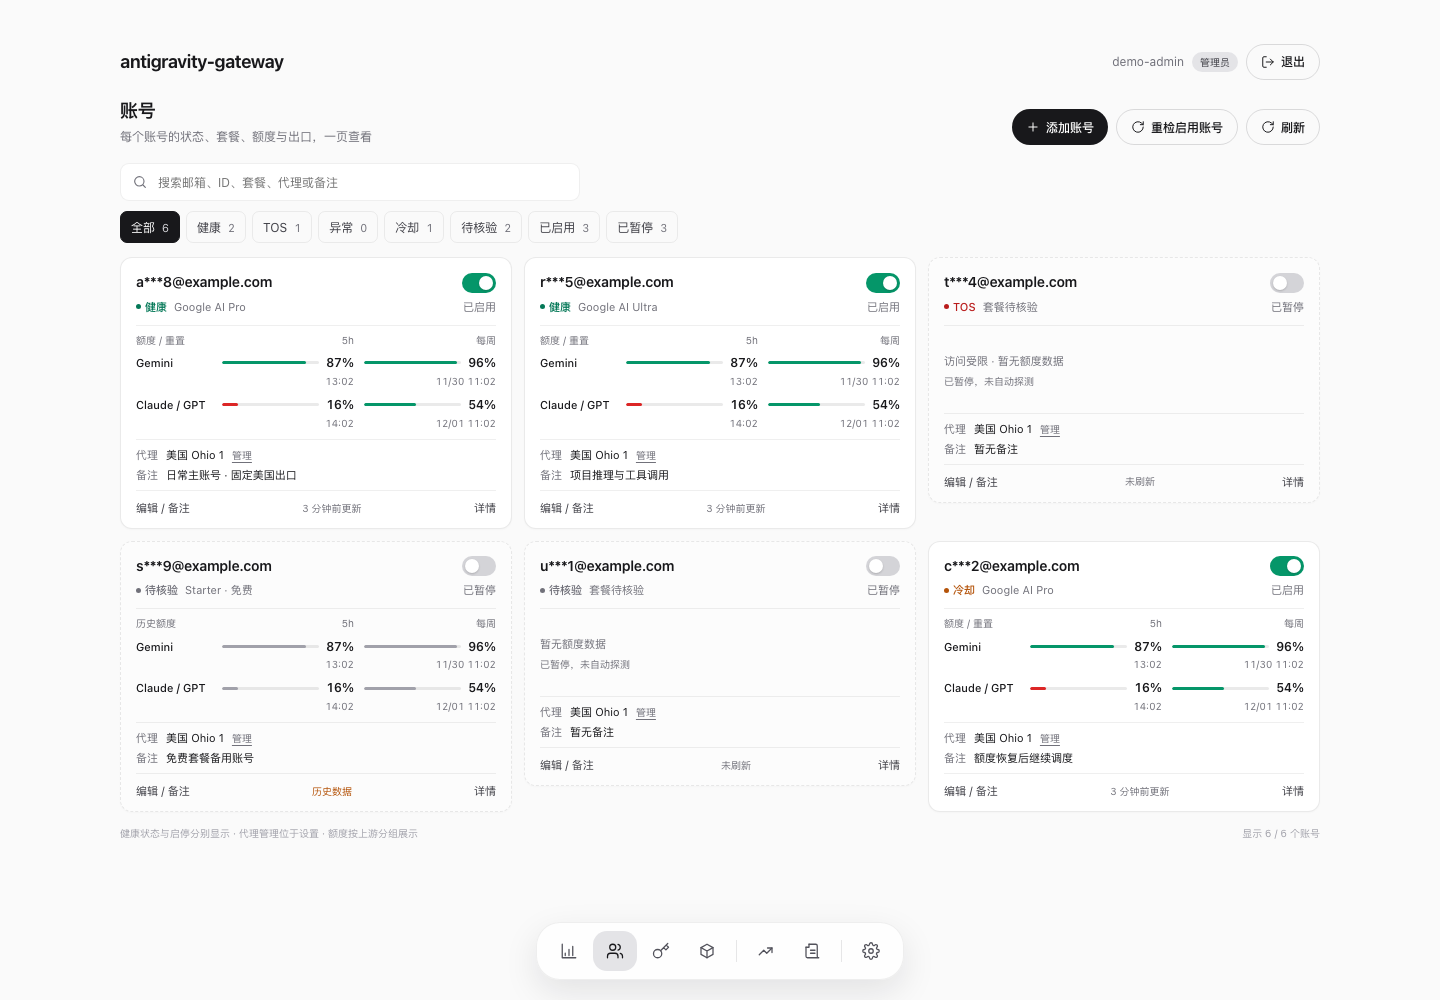
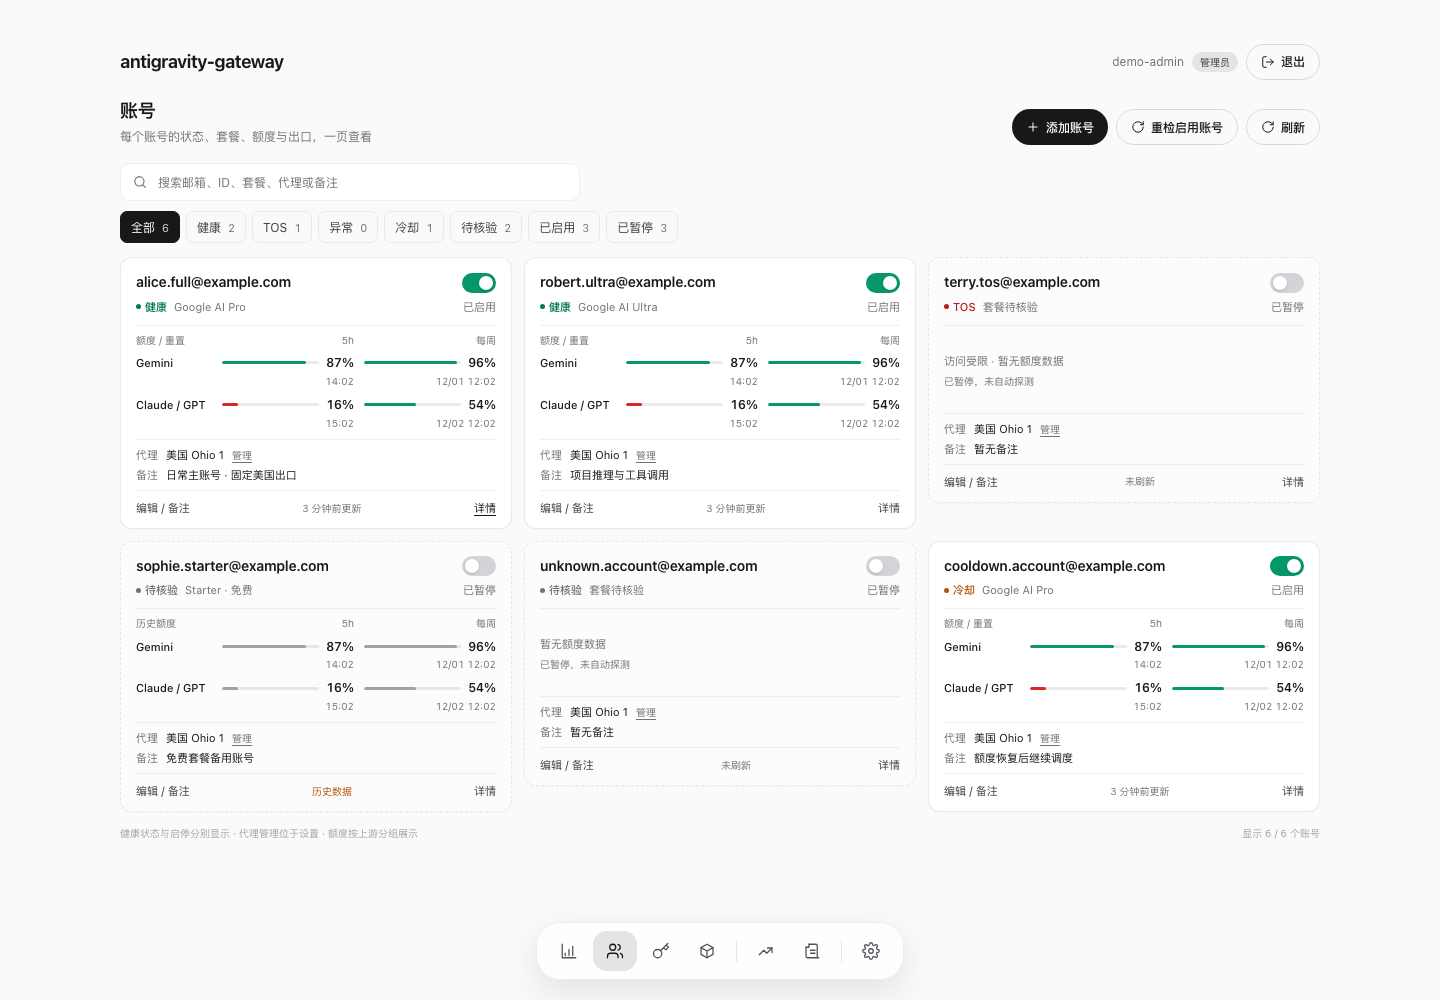
feat(manager): show full account emails and release bailey.51

diff --git a/src/admin-api.js b/src/admin-api.js
@@ -102,6 +102,7 @@ function dailyTrend(history, days, now = Date.now()) {
 function accountSnapshot(account, { providerType, accountType, quota }) {
   return {
     id: account.id,
+    email: account.email || '',
     emailMasked: maskEmail(account.email),
     tokenUsageKnown: typeof account.tokenUsageKnown === 'boolean' ? account.tokenUsageKnown : true,
     models: Array.isArray(account.models) ? account.models.map(String) : [],
@@ -329,7 +330,7 @@ function usageSummary(deps, { days = 7, groupBy = 'model', grain = 'day', now = 
     const knownRequests = [...items.values()].reduce((n, row) => n + row.requests, 0);
     items.set('unattributed', { id: 'unattributed', name: '未归属（主密钥 / 历史 / 已删除或重置）', tokens: Math.max(0, totals.totalTokens - knownTokens), requests: Math.max(0, totals.clientRequests - knownRequests), inputTokens: null, outputTokens: null, cachedTokens: null, successRate: null });
   } else {
-    const labels = groupBy === 'account' ? new Map([...Object.entries(deps.accountLabels?.all() || {}), ...accountList(deps).map(row => [row.id, row.emailMasked])]) : new Map();
+    const labels = groupBy === 'account' ? new Map([...Object.entries(deps.accountLabels?.all() || {}), ...accountList(deps).map(row => [row.id, row.email])]) : new Map();
     const buckets = groupBy === 'account' ? summary.hourlyByAccount : summary.hourlyByModel;
     for (const [hour, groups] of Object.entries(buckets || {})) {
       const at = Date.parse(hour);
@@ -448,7 +449,7 @@ async function handleAdminRequest({ req, res, route, requestUrl, deps }) {
     }
     if (route === `${PREFIX}/logs/requests/export` && req.method === 'GET') {
       const params = requestUrl?.searchParams;
-      await deps.requestLog.streamCsv(res, { accountLabels: {...deps.accountLabels?.all(), ...Object.fromEntries(accountList(deps).map(row => [row.id, row.emailMasked]))}, days: queryNumber(params?.get('days'), 7, 1, 31), key: params?.get('key') || '', model: params?.get('model') || '', status: params?.get('status') || '', ip: params?.get('ip') || '' });
+      await deps.requestLog.streamCsv(res, { accountLabels: {...deps.accountLabels?.all(), ...Object.fromEntries(accountList(deps).map(row => [row.id, row.email]))}, days: queryNumber(params?.get('days'), 7, 1, 31), key: params?.get('key') || '', model: params?.get('model') || '', status: params?.get('status') || '', ip: params?.get('ip') || '' });
       return;
     }
     if (route === `${PREFIX}/logs/requests` && req.method === 'GET') {
@@ -463,8 +464,8 @@ async function handleAdminRequest({ req, res, route, requestUrl, deps }) {
         page: queryNumber(params?.get('page'), 1, 1, 100000),
         size: queryNumber(params?.get('size'), 20, 1, 200)
       });
-      const labels = new Map([...Object.entries(deps.accountLabels?.all() || {}), ...accountList(deps).map(row => [row.id, row.emailMasked])]);
-      data.items = data.items.map(row => ({ ...row, accountLabel: labels.get(row.account) || (String(row.account || '').includes('@') ? maskEmail(row.account) : row.account ? '已移除账号' : '—') }));
+      const labels = new Map([...Object.entries(deps.accountLabels?.all() || {}), ...accountList(deps).map(row => [row.id, row.email])]);
+      data.items = data.items.map(row => ({ ...row, accountLabel: labels.get(row.account) || (String(row.account || '').includes('@') ? row.account : row.account ? '已移除账号' : '—') }));
       sendJson(res, 200, { ok: true, data });
       return;
     }
@@ -485,8 +486,8 @@ async function handleAdminRequest({ req, res, route, requestUrl, deps }) {
         page: queryNumber(params?.get('page'), 1, 1, 100000),
         size: queryNumber(params?.get('size'), 20, 1, 200)
       });
-      const labels = new Map([...Object.entries(deps.accountLabels?.all() || {}), ...accountList(deps).map(row => [row.id, row.emailMasked])]);
-      data.items = data.items.map(row => { const id = String(row.account || row.accountId || ''); return { ...row, accountLabel: labels.get(id) || (id.includes('@') ? maskEmail(id) : id ? '已移除账号' : '—') }; });
+      const labels = new Map([...Object.entries(deps.accountLabels?.all() || {}), ...accountList(deps).map(row => [row.id, row.email])]);
+      data.items = data.items.map(row => { const id = String(row.accountId || row.account || ''); return { ...row, accountLabel: labels.get(id) || (id.includes('@') ? id : id ? '已移除账号' : '—') }; });
       sendJson(res, 200, { ok: true, data });
       return;
     }

diff --git a/tests/admin-p4-p5.test.js b/tests/admin-p4-p5.test.js
@@ -97,7 +97,7 @@ test('CSV worker exports filtered results beyond one UI page and removes tempora
   fs.rmSync(file);
 });
 
-test('request log account column resolves IDs to masked account email', async () => {
+test('request log account column resolves IDs to full account email', async () => {
   const { handleAdminRequest } = require('../src/admin-api');
   let status, body;
   await handleAdminRequest({
@@ -108,7 +108,7 @@ test('request log account column resolves IDs to masked account email', async ()
       requestLog:{queryAsync:async()=>({items:[{account:'a1'},{account:'removed'},{account:''}],total:3})} }
   });
   assert.equal(status,200);
-  assert.equal(body.data.items[0].accountLabel,'a***e@example.com');
+  assert.equal(body.data.items[0].accountLabel,'alice@example.com');
   assert.equal(body.data.items[0].account,'a1');
   assert.equal(body.data.items[1].accountLabel,'已移除账号');
   assert.equal(body.data.items[2].accountLabel,'—');
@@ -117,17 +117,18 @@ test('request log account column resolves IDs to masked account email', async ()
 test('account email registry persists labels without credentials and names historical usage', t => {
   const {AccountLabels}=require('../src/account-labels');
   const configDir=fixture(t);const labels=new AccountLabels({configDir});
+  fs.writeFileSync(labels.file, JSON.stringify({old:'a***d@example.com'}));
   labels.capture([{id:'old',email:'archived@example.com',refreshToken:'must-never-save'}]);
   const saved=fs.readFileSync(labels.file,'utf8');
-  assert.equal(saved.includes('must-never-save'),false);assert.equal(saved.includes('archived@example.com'),false);
+  assert.equal(saved.includes('must-never-save'),false);assert.equal(saved.includes('archived@example.com'),true);
   const restored=new AccountLabels({configDir});
   fs.writeFileSync(labels.file, JSON.stringify({...JSON.parse(saved), external: 'h***l@example.com'}));
   restored.capture([{id:'new',email:'current@example.com'}]);
   assert.equal(new AccountLabels({configDir}).all().external,'h***l@example.com');
   const now=Date.now();const hour=new Date(Math.floor(now/3600000)*3600000).toISOString();
   const result=usageSummary({accountLabels:restored,accountPool:{status:()=>[]},usageStore:{summary:()=>({history:[{at:hour,totalTokens:10}],hourlyByAccount:{[hour]:{old:{totalTokens:10}}}})}},{days:1,groupBy:'account',now});
-  assert.equal(result.items[0].name,'a***d@example.com');
-  assert.equal(result.series[0].name,'a***d@example.com');
+  assert.equal(result.items[0].name,'archived@example.com');
+  assert.equal(result.series[0].name,'archived@example.com');
 });
 
 
@@ -137,4 +138,19 @@ test('internal models stay out of all public catalogs after discovery', () => {
   const input=['gemini-3.8-flash-low',...internal,'claude-sonnet-5-5-low'];
   assert.deepEqual(publicModels(input),['gemini-3.8-flash-low','claude-sonnet-5-5-low']);
   assert.equal(input.length,7);
+});
+
+test('diagnostic display resolves account IDs before the masked file label', async t => {
+  const { handleAdminRequest } = require('../src/admin-api');
+  const file = path.join(fixture(t), 'diagnostics.jsonl');
+  fs.writeFileSync(file, JSON.stringify({ at: new Date().toISOString(), accountId: 'a1', account: 'a***e@e***.com', event: 'test' }) + '\n');
+  let body;
+  await handleAdminRequest({
+    req: { method: 'GET', socket: {remoteAddress:'127.0.0.1'}, headers:{'x-agy-admin-token':'synthetic-admin'} },
+    res: { writeHead: () => {}, end: text => {body=JSON.parse(text);} },
+    route:'/_admin/v1/logs/diagnostics', requestUrl:new URL('http://localhost/_admin/v1/logs/diagnostics'),
+    deps: { token:'synthetic-admin', accountPool:{status:()=>[{id:'a1',email:'alice@example.com'}]}, diagnosticLog:{file} }
+  });
+  assert.equal(body.data.items[0].accountLabel, 'alice@example.com');
+  assert.equal(JSON.parse(fs.readFileSync(file, 'utf8')).account, 'a***e@e***.com');
 });

diff --git a/manager/web/app/(main)/accounts/page.tsx b/manager/web/app/(main)/accounts/page.tsx
@@ -74,7 +74,7 @@ export default function AccountsPage() {
       if (!needle) return true;
       const key = account.providerType === 'robin' ? `robin:${account.id}` : account.id;
       const proxyName = proxies?.proxies.find((proxy) => proxy.id === proxies.bindings[key])?.name || '';
-      return `${account.emailMasked} ${account.id} ${account.note || ''} ${accountPlan(account)} ${proxyName}`.toLowerCase().includes(needle);
+      return `${account.email} ${account.id} ${account.note || ''} ${accountPlan(account)} ${proxyName}`.toLowerCase().includes(needle);
     });
   }, [data, query, state, proxies]);
 
@@ -93,7 +93,7 @@ export default function AccountsPage() {
         body: JSON.stringify({ enabled: nextEnabled, provider: account.providerType })
       });
       setData((current) => current ? { ...current, items: applyAccountEnabledPatch(current.items, account.id, nextEnabled) } : current);
-      notify(`${nextEnabled ? '已启用' : '已暂停'} ${account.emailMasked || account.id}`);
+      notify(`${nextEnabled ? '已启用' : '已暂停'} ${account.email || account.id}`);
       await load();
     } catch (err) {
       notify(err instanceof ApiError || err instanceof Error ? err.message : `${nextEnabled ? '启用' : '暂停'}失败`, true);
@@ -208,7 +208,7 @@ export default function AccountsPage() {
       {deleting ? (
         <Modal
           title="删除账号"
-          description={`这会删除 ${deleting.emailMasked || deleting.id} 的本地凭据，并立即停止调度。不可撤销。`}
+          description={`这会删除 ${deleting.email || deleting.id} 的本地凭据，并立即停止调度。不可撤销。`}
           onClose={() => { if (!deletingBusy) setDeleting(null); }}
           footer={<>
             <button className="btn ghost" type="button" onClick={() => setDeleting(null)} disabled={deletingBusy}>取消</button>
@@ -217,7 +217,7 @@ export default function AccountsPage() {
         >
           <div className="form-grid">
             <div className="field">
-              <label htmlFor="delete-confirm">输入 <b>{deleting.emailMasked || deleting.id}</b> 确认</label>
+              <label htmlFor="delete-confirm">输入 <b>{deleting.email || deleting.id}</b> 确认</label>
               <input id="delete-confirm" value={confirm} onChange={(event) => setConfirm(event.target.value)} autoComplete="off" />
             </div>
           </div>

diff --git a/manager/web/app/(main)/dashboard/page.tsx b/manager/web/app/(main)/dashboard/page.tsx
@@ -137,7 +137,7 @@ export default function DashboardPage() {
           label="额度最紧"
           icon={<GaugeIcon size={14} />}
           value={tightest?.cell ? `${Math.round(tightest.cell.fraction * 100)}%` : '—'}
-          hint={tightest?.cell ? `${tightest.cell.groupLabel} · ${tightest.account.emailMasked}` : data ? '没有额度数据' : '等待基座恢复'}
+          hint={tightest?.cell ? `${tightest.cell.groupLabel} · ${tightest.account.email}` : data ? '没有额度数据' : '等待基座恢复'}
           hintTone={tightest?.cell && tightest.cell.fraction < 0.2 ? 'bad' : tightest?.cell && tightest.cell.fraction < 0.5 ? 'warn' : undefined}
         />
         <StatCard
@@ -182,7 +182,7 @@ export default function DashboardPage() {
             {healthAccounts.length ? healthAccounts.map((account) => (
               <div className="health-row" key={account.id}>
                 <div className="health-name">
-                  <span>{account.emailMasked || account.id}</span>
+                  <span>{account.email || account.id}</span>
                   {stateBadge(account)}
                 </div>
                 <QuotaChips account={account} />
@@ -194,7 +194,7 @@ export default function DashboardPage() {
           <div className="panel">
             <div className="panel-head"><div><h2>需要关注</h2><p>冷却与异常账号</p></div><span className="badge">{data ? problemAccounts.length : '—'}</span></div>
             {problemAccounts.length ? problemAccounts.map((account) => (
-              <div className="kv" key={account.id}><span>{account.emailMasked || account.id}</span><b>{account.state === 'cooldown' ? '冷却中' : accountStateLabel(account.state)}</b></div>
+              <div className="kv" key={account.id}><span>{account.email || account.id}</span><b>{account.state === 'cooldown' ? '冷却中' : accountStateLabel(account.state)}</b></div>
             )) : <div className="muted small">{data ? '没有需要处理的账号' : '等待基座恢复'}</div>}
           </div>
           <div className="panel">

diff --git a/manager/server/tests/account-confirmation.test.js b/manager/server/tests/account-confirmation.test.js
@@ -1,0 +1,35 @@
+'use strict';
+
+const test = require('node:test');
+const assert = require('node:assert/strict');
+const Fastify = require('fastify');
+const { registerAccountRoutes } = require('../src/routes/accounts');
+
+test('account deletion requires the full email, ID or legacy masked confirmation', async (t) => {
+  const app = Fastify();
+  t.after(() => app.close());
+  const deleted = [];
+  const account = { id: 'demo-account', email: 'alice.full@example.com', emailMasked: 'a***l@example.com' };
+  registerAccountRoutes(app, {
+    requireAdmin: () => ({ username: 'test-admin' }),
+    fail: (reply, status, code, message) => reply.code(status).send({ ok: false, error: { code, message } }),
+    gatewayFail: (_, error) => { throw error; },
+    gateway: {
+      adminGet: async () => ({ items: [account] }),
+      adminRequest: async (method, path) => { deleted.push([method, path]); return { deleted: true }; }
+    },
+    notes: { remove: () => {} },
+    auditWrite: () => {}
+  });
+  for (const confirm of ['', 'alice', 'another@example.com']) {
+    const response = await app.inject({ method: 'DELETE', url: '/admin/api/accounts/demo-account', payload: { confirm } });
+    assert.equal(response.statusCode, 400);
+    assert.equal(response.json().error.code, 'confirm_mismatch');
+  }
+  assert.equal(deleted.length, 0);
+  for (const confirm of [' alice.full@example.com ', account.id, account.emailMasked]) {
+    const response = await app.inject({ method: 'DELETE', url: '/admin/api/accounts/demo-account', payload: { confirm } });
+    assert.equal(response.statusCode, 200);
+  }
+  assert.equal(deleted.length, 3);
+});

diff --git a/manager/web/components/accounts/account-card.tsx b/manager/web/components/accounts/account-card.tsx
@@ -42,11 +42,11 @@ export function AccountCard({ account, proxies, proxyError, now, canEdit, toggli
   const updateText = !groups.length && healthUpdatedAt ? `${fmtRelative(healthUpdatedAt)}核验` : stale ? '历史数据' : updatedAt ? `${fmtRelative(updatedAt)}更新` : '未刷新';
   const detailId = `account-detail-${account.providerType}-${account.id}`;
 
-  return <article className={`account-card${!account.enabled ? ' paused' : ''}`} aria-label={account.emailMasked || account.id}>
+  return <article className={`account-card${!account.enabled ? ' paused' : ''}`} aria-label={account.email || account.id}>
     <header className="account-card-head">
-      <h2 title={account.id}>{account.emailMasked || account.id}</h2>
+      <h2 title={account.id}>{account.email || account.id}</h2>
       <button className={`switch compact${account.enabled ? ' on' : ''}`} type="button" role="switch"
-        aria-checked={account.enabled} aria-label={`${account.enabled ? '暂停' : '启用'} ${account.emailMasked || account.id}`}
+        aria-checked={account.enabled} aria-label={`${account.enabled ? '暂停' : '启用'} ${account.email || account.id}`}
         title={toggling ? '保存中…' : account.enabled ? '点击暂停调度' : '点击启用调度'}
         disabled={!canEdit || toggling || checking} onClick={onToggle} />
     </header>

diff --git a/manager/server/src/routes/accounts.js b/manager/server/src/routes/accounts.js
@@ -103,8 +103,8 @@ function registerAccountRoutes(app, ctx) {
       const account = (data.items || []).find((item) => item.id === id && (!provider || item.providerType === provider));
       if (!account) return fail(reply, 404, 'account_not_found', '账号不存在或已被删除。');
       const confirm = String(body.confirm || '').trim();
-      if (confirm !== account.emailMasked && confirm !== account.id) {
-        return fail(reply, 400, 'confirm_mismatch', '请输入账号的脱敏邮箱或账号 ID 确认删除。');
+      if (confirm !== account.email && confirm !== account.emailMasked && confirm !== account.id) {
+        return fail(reply, 400, 'confirm_mismatch', '请输入账号的完整邮箱或账号 ID 确认删除。');
       }
       auditWrite(req, user, 'account.delete', id, started, 'pending', JSON.stringify({ provider }));
       const result = await gateway.adminRequest('DELETE', `/_admin/v1/accounts/${encodeURIComponent(id)}${providerQuery(provider)}`);

diff --git a/src/account-labels.js b/src/account-labels.js
@@ -1,7 +1,6 @@
 'use strict';
 const fs = require('node:fs');
 const path = require('node:path');
-const { maskEmail } = require('./account-format');
 class AccountLabels {
   constructor({configDir}) {
     this.file = path.join(configDir, 'account-labels.json');
@@ -22,7 +21,7 @@ class AccountLabels {
     this.refresh();
     let changed = false;
     for (const account of accounts) {
-      const label = account.emailMasked || account.email ? maskEmail(account.emailMasked || account.email) : '';
+      const label = String(account.email || account.emailMasked || '');
       if (!account.id || !label.includes('@') || this.labels[account.id] === label) continue;
       this.labels[account.id] = label; changed = true;
     }

diff --git a/manager/web/components/accounts/add-account-dialog.tsx b/manager/web/components/accounts/add-account-dialog.tsx
@@ -159,7 +159,7 @@ export function AddAccountDialog({
           {flow.state === 'checking' ? <div className="notice info"><span>正在验证授权并保存账号，请稍候…</span></div> : null}
           {flow.state === 'complete' ? (
             <div className="notice" style={{ background: 'rgba(5,150,105,.1)', color: '#047857' }}>
-              <span>账号已保存{flow.account?.emailMasked ? `：${flow.account.emailMasked}` : ''}。列表会自动刷新。</span>
+              <span>账号已保存{flow.account?.email ? `：${flow.account.email}` : ''}。列表会自动刷新。</span>
             </div>
           ) : null}
           {flow.state === 'failed' || flow.state === 'cancelled' ? (

diff --git a/tests/admin-api.test.js b/tests/admin-api.test.js
@@ -71,7 +71,7 @@ test('admin api overview reports account counts and today totals', () => {
   assert.equal(data.accounts.available, 1);
   assert.equal(data.accounts.cooldown, 1);
   assert.equal(data.accounts.items[0].emailMasked, 'b***y@example.com');
-  assert.equal('email' in data.accounts.items[0], false);
+  assert.equal(data.accounts.items[0].email, 'bailey@example.com');
   assert.equal(data.usage.today.totalTokens > 0, true);
   assert.equal(data.trend.length, 14);
   assert.deepEqual(data.affinityPolicy, { maxTurns: 20, lowQuotaMaxTurns: 5, lowQuotaPercent: 20, ttlSeconds: 18000 });

diff --git a/manager/web/lib/types.ts b/manager/web/lib/types.ts
@@ -40,7 +40,7 @@ export type Quota = {
 
 export type Account = {
   id: string;
-  emailMasked: string;
+  email: string;
   providerType: string;
   accountType: string;
   enabled: boolean;
@@ -129,7 +129,7 @@ export type OAuthStatus = {
   state: 'starting' | 'waiting' | 'checking' | 'complete' | 'failed' | 'cancelled' | 'idle';
   url: string;
   proxyId: string;
-  account: { id: string; emailMasked: string } | null;
+  account: { id: string; email: string } | null;
   error: string;
   startedAt: string;
 };

diff --git a/src/admin-oauth.js b/src/admin-oauth.js
@@ -85,7 +85,7 @@ class AdminOAuth {
       this.accountPool.reload();
       void this.quotaManager?.refreshAccount?.(saved.id, { force: true, summaryOnly: false })?.catch?.(() => {});
       current.state = 'complete';
-      current.account = { id: saved.id, emailMasked: maskEmail(saved.email) };
+      current.account = { id: saved.id, email: saved.email || '', emailMasked: maskEmail(saved.email) };
       current.url = '';
     }).catch((error) => {
       if (current.state === 'cancelled') return;
